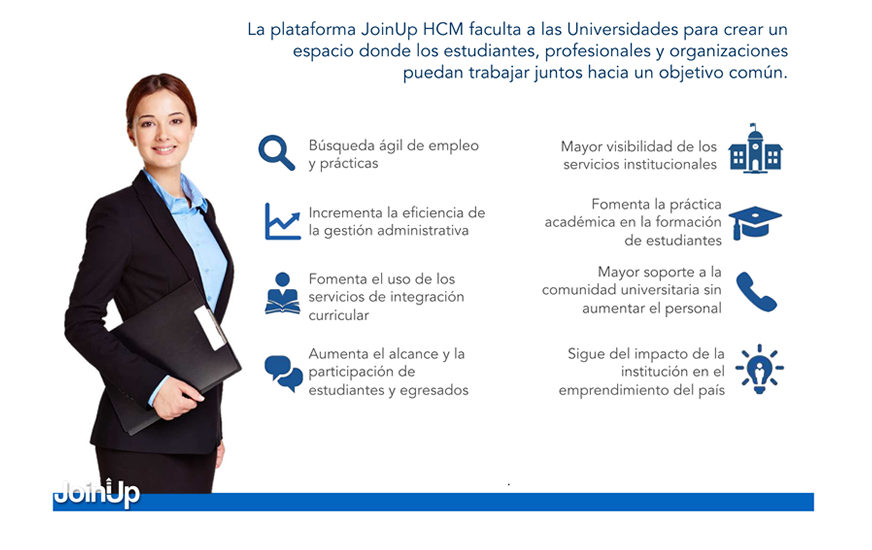
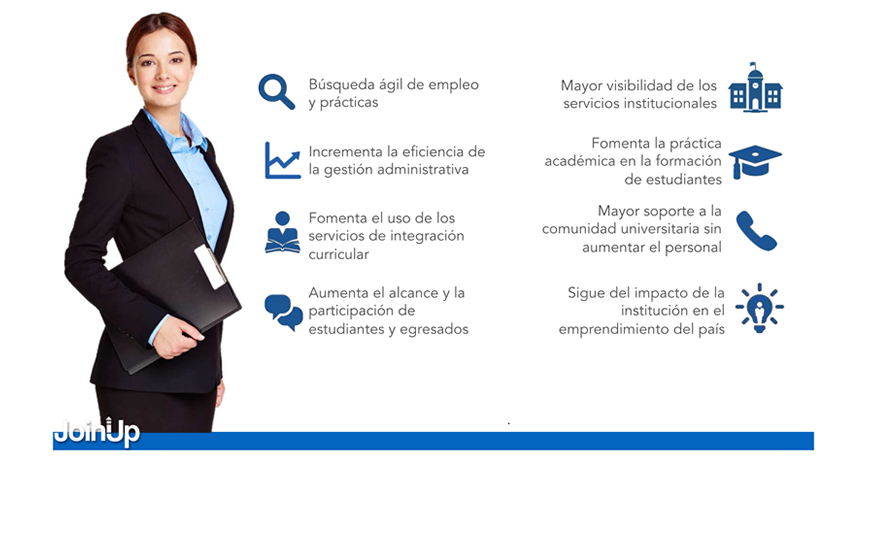
se modificaron circulos, pagina de contacto, margenes

Changed region(s): [[0.0619, 0.0, 0.9599, 0.9582], [0.2787, 0.0309, 0.8979, 0.7418]]

diff --git a/index.html b/index.html
@@ -109,26 +109,26 @@
             </ul>
 
 <ul class="navbar-nav text-uppercase ml-auto">
-   
+
           <li>
-                
+
                 <a href="#"><i class="fa fa-facebook fa-lg fa-3x btn_redes2 p-1" id="redes_sociales2"></i></a>
 
          </li>
 
           <li>
-                
+
                 <a href="#"><i class="fa fa-twitter fa-lg fa-3x btn_redes2 p-1" id="redes_sociales2"></i></a>
 
          </li>
 
           <li>
-                
+
                 <a href="#"><i class="fa fa-linkedin fa-lg fa-3x btn_redes2 p-1" id="redes_sociales2"></i></a>
 
          </li>
 
-   
+
    </ul>
       </div>
     </div>
@@ -199,11 +199,12 @@
       <div class="row">
         <div class="col-lg-12 text-center">
           <h2 class="section-heading text-uppercase">qué es joinup?</h2>
+          <h3 class="section-subheading text-muted">Un Ecosistema para generar y conectar.</h3>
          </div>
            <div class="col-xs-12 col-lg-12">
 
              <img src="img/joinup/seccion2.png" class="" id="imagen_seccion">
-          
+
           </div>
 
       </div>
@@ -217,11 +218,12 @@
       <div class="row">
         <div class="col-lg-12 text-center">
           <h2 class="section-heading text-uppercase">caraterísticas del servicio</h2>
+          <h3 class="section-subheading text-muted">La plataforma JoinUp HCM faculta a las Universidades para crear un espacio don de los estudiantes, profesionales y organizaciones puedan trabajar juntos hacia un objetivo común.</h3>
          </div>
            <div class="col-xs-12 col-lg-12">
 
              <img src="img/joinup/seccion1.png" class="" id="imagen_seccion">
-          
+
           </div>
 
       </div>
@@ -230,7 +232,7 @@
  <!-- caracteristicas -->
 
   <!-- Team -->
-  <section class="bg-light page-section" id="seccion3">
+  <section class="bg-light page-section2" id="seccion3">
     <div class="container">
       <div class="row">
         <div class="col-lg-12 text-center">
@@ -239,25 +241,55 @@
         </div>
       </div>
       <div class="row">
-           <div class="col-xs-12 col-lg-12">
-
-             <img src="img/joinup/seccion3.png" class="" id="imagen_seccion">
-          
+        <div class="col-sm-3">
+          <div class="team-member">
+            <img class="mx-auto rounded-circle" src="img/joinup/javeriana.png" alt="">
+            <h4></h4>
+            <p class="text-muted"></p>
           </div>
+        </div>
+        <div class="col-sm-3">
+          <div class="team-member">
+            <img class="mx-auto rounded-circle" src="img/joinup/andes.png" alt="">
+            <h4></h4>
+            <p class="text-muted"></p>
+          </div>
+        </div>
+        <div class="col-sm-3">
+          <div class="team-member">
+            <img class="mx-auto rounded-circle" src="img/joinup/autonoma.png" alt="">
+            <h4></h4>
+            <p class="text-muted"></p>
+          </div>
+        </div>
+        <div class="col-sm-3">
+          <div class="team-member">
+            <img class="mx-auto rounded-circle" src="img/joinup/rosario.png" alt="">
+            <h4></h4>
+            <p class="text-muted"></p>
+          </div>
+        </div>
+      </div>
+      <div class="row">
+        <div class="col-lg-8 mx-auto text-center">
+          <p class="large text-muted"></p>
+        </div>
+      </div>
     </div>
   </section>
 
-  <!-- Contact -->
+  <!-- Contactenos -->
   <section class="page-section" id="contact">
     <div class="container">
       <div class="row">
         <div class="col-lg-12 text-center">
           <h2 class="section-heading text-uppercase">Contáctanos.</h2>
-        </div>
+          <h3 class="section-subheading text-muted">¿Quieres conoces más de nuestros servicios?</h3>
+          </div>
       </div>
       <div class="row">
         <div class="col-lg-12">
-          <form id="contactForm" name="sentMessage" novalidate="novalidate">
+          <form id="contactForm" name="sentMessage" novalidate="novalidate" method="post">
             <div class="row">
               <div class="col-md-6">
                 <div class="form-group">
@@ -298,7 +330,7 @@
   <footer class="footer">
 
     <img src="img/joinup/footer.png" class="" id="footer-imagen">
-  
+
   </footer>
 
 

diff --git a/js/contact_me.js b/js/contact_me.js
@@ -1,75 +1,20 @@
-$(function() {
+$(document).ready(function() {
 
-  $("#contactForm input,#contactForm textarea").jqBootstrapValidation({
-    preventSubmit: true,
-    submitError: function($form, event, errors) {
-      // additional error messages or events
-    },
-    submitSuccess: function($form, event) {
-      event.preventDefault(); // prevent default submit behaviour
-      // get values from FORM
-      var name = $("input#name").val();
-      var email = $("input#email").val();
-      var phone = $("input#phone").val();
-      var message = $("textarea#message").val();
-      var firstName = name; // For Success/Failure Message
-      // Check for white space in name for Success/Fail message
-      if (firstName.indexOf(' ') >= 0) {
-        firstName = name.split(' ').slice(0, -1).join(' ');
-      }
-      $this = $("#sendMessageButton");
-      $this.prop("disabled", true); // Disable submit button until AJAX call is complete to prevent duplicate messages
-      $.ajax({
-        url: "././mail/contact_me.php",
-        type: "POST",
-        data: {
-          name: name,
-          phone: phone,
-          email: email,
-          message: message
-        },
-        cache: false,
-        success: function() {
-          // Success message
-          $('#success').html("<div class='alert alert-success'>");
-          $('#success > .alert-success').html("<button type='button' class='close' data-dismiss='alert' aria-hidden='true'>&times;")
-            .append("</button>");
-          $('#success > .alert-success')
-            .append("<strong>Your message has been sent. </strong>");
-          $('#success > .alert-success')
-            .append('</div>');
-          //clear all fields
-          $('#contactForm').trigger("reset");
-        },
-        error: function() {
-          // Fail message
-          $('#success').html("<div class='alert alert-danger'>");
-          $('#success > .alert-danger').html("<button type='button' class='close' data-dismiss='alert' aria-hidden='true'>&times;")
-            .append("</button>");
-          $('#success > .alert-danger').append($("<strong>").text("Sorry " + firstName + ", it seems that my mail server is not responding. Please try again later!"));
-          $('#success > .alert-danger').append('</div>');
-          //clear all fields
-          $('#contactForm').trigger("reset");
-        },
-        complete: function() {
-          setTimeout(function() {
-            $this.prop("disabled", false); // Re-enable submit button when AJAX call is complete
-          }, 1000);
-        }
-      });
-    },
-    filter: function() {
-      return $(this).is(":visible");
-    },
+	    $('#sendMessageButton').click(function(event) {
+        event.preventDefault();
+			var nombre    =$("#name").val();
+      var empresa   =$("#empresa").val();
+      var email     =$("#email").val();
+      var telefono  =$("#phone").val();
+      var mensaje  =$("#message").val();
+
+      var datos = {nombre, empresa, email, telefono, mensaje};
+console.log(datos);
+
+//      $.ajax({
+//        type: "POST",
+  //        url: "vendor/mail/contact_me.php",
+    //      data: datos,
+
   });
-
-  $("a[data-toggle=\"tab\"]").click(function(e) {
-    e.preventDefault();
-    $(this).tab("show");
-  });
-});
-
-/*When clicking on Full hide fail/success boxes */
-$('#name').focus(function() {
-  $('#success').html('');
-});
+    });

diff --git a/css/agency.css b/css/agency.css
@@ -7,8 +7,8 @@
 body {
   overflow-x: hidden;
   font-family: 'Roboto Slab', -apple-system, BlinkMacSystemFont, 'Segoe UI', Roboto, 'Helvetica Neue', Arial, sans-serif, 'Apple Color Emoji', 'Segoe UI Emoji', 'Segoe UI Symbol', 'Noto Color Emoji';
-  background: url('img/side_3.jpg');
-  background-attachment: fixed;
+/*  background: url('https://img.freepik.com/vector-gratis/hermoso-fondo-acuarela_23-2148486848.jpg?size=626&ext=jpg');
+  background-attachment: fixed; */
 }
 }
 
@@ -39,11 +39,13 @@ h6 {
 }
 
 .page-section {
-  padding: 65px 0;
+  padding: 30px 0;
+  margin-bottom: 50px;
 }
 
 .page-section2 {
-  padding: 10px 0;
+  padding: 30px 0;
+  margin-bottom: 50px;
 }
 
 .page-section h2.section-heading {
@@ -56,7 +58,7 @@ h6 {
   font-size: 16px;
   font-weight: 400;
   font-style: italic;
-  margin-bottom: 75px;
+  margin-bottom: 5px;
   text-transform: none;
   font-family: 'Droid Serif', -apple-system, BlinkMacSystemFont, 'Segoe UI', Roboto, 'Helvetica Neue', Arial, sans-serif, 'Apple Color Emoji', 'Segoe UI Emoji', 'Segoe UI Symbol', 'Noto Color Emoji';
 }
@@ -71,7 +73,7 @@ h6 {
   font-size: 16px;
   font-weight: 400;
   font-style: italic;
-  margin-bottom: 5px;
+  margin-bottom: 160px;
   text-transform: none;
   font-family: 'Droid Serif', -apple-system, BlinkMacSystemFont, 'Segoe UI', Roboto, 'Helvetica Neue', Arial, sans-serif, 'Apple Color Emoji', 'Segoe UI Emoji', 'Segoe UI Symbol', 'Noto Color Emoji';
 }
@@ -197,7 +199,7 @@ img::-moz-selection {
 header.masthead {
   text-align: center;
   color: white;
-  background-image: url("../img/header-bg.jpg");
+  background-image: url("https://img.freepik.com/vector-gratis/hermoso-fondo-acuarela_23-2148486848.jpg?size=626&ext=jpg");
   background-repeat: no-repeat;
   background-attachment: scroll;
   background-position: center center;
@@ -610,18 +612,16 @@ color: #FF3B60;
 }
 
 section#contact {
-  background-color: #212529;
-  background-image: url("../img/joinup/map-image.png");
-  background-repeat: no-repeat;
-  background-position: center;
+  background-color: #87CEEB;
 }
 
 section#contact .section-heading {
-  color: #fff;
+  color: #000;
 }
 
 section#contact .form-group {
-  margin-bottom: 25px;
+    margin-top: 50px;
+  margin-bottom: 50px;
 }
 
 section#contact .form-group input,
@@ -773,7 +773,7 @@ max-width: 100%;
 height: auto;
 padding: 2px;
 display: block;
-margin: 0 auto; 
+margin: 0 auto;
 }
 
 #imagen_seccion{

diff --git a/vendor/mail/contact_me.php b/vendor/mail/contact_me.php
@@ -1,30 +1,31 @@
 <?php
-	
+
 	// Check for empty fields
-	if(empty($_POST['name'])	||	empty($_POST['email'])	||	empty($_POST['phone'])	||	empty($_POST['message'])   ||	!filter_var($_POST['email'],FILTER_VALIDATE_EMAIL))
+	if(empty($_POST['name'])	||	empty($_POST['email'])	||	empty($_POST['phone']) ||	empty($_POST['empresa'])	||	empty($_POST['message'])   ||	!filter_var($_POST['email'],FILTER_VALIDATE_EMAIL))
 	   {
-	   
+
 	   	echo "FALTAN DATOS!";
 	   	return false;
-	   
+
 	   }
-	   
+
 	$name = strip_tags(htmlspecialchars($_POST['name']));
+	$empresa = strip_tags(htmlspecialchars($_POST['empresa']));
 	$email_address = strip_tags(htmlspecialchars($_POST['email']));
 	$phone = strip_tags(htmlspecialchars($_POST['phone']));
 	$message = strip_tags(htmlspecialchars($_POST['message']));
-	   
+
 	// Create the email and send the message
 
-	$to = 'ivanruizdelfin@gmail.com'; 
+	$to = 'ivanruizdelfin@gmail.com';
 
 	// Add your email address inbetween the '' replacing yourname@yourdomain.com - This is where the form will send a message to.
 
 	$email_subject = "Formulario de Contacto:  $name";
 	$email_body = "Tu has recibido un nuevo contacto del formulario de peoplebpo\n\n"."Estos son los detalles:\n\nNombre: $name\n\nEmail: $email_address\n\nTelefono: $phone\n\nMensage:\n$message";
 	$headers = "De: noreply@peoplebpo.com\n"; // This is the email address the generated message will be from. We recommend using something like noreply@yourdomain.com.
-	$headers .= "Reply-To: $email_address";   
+	$headers .= "Reply-To: $email_address";
 	mail($to,$email_subject,$email_body,$headers);
-	return true;         
+	return true;
 
-?> 
+?>
